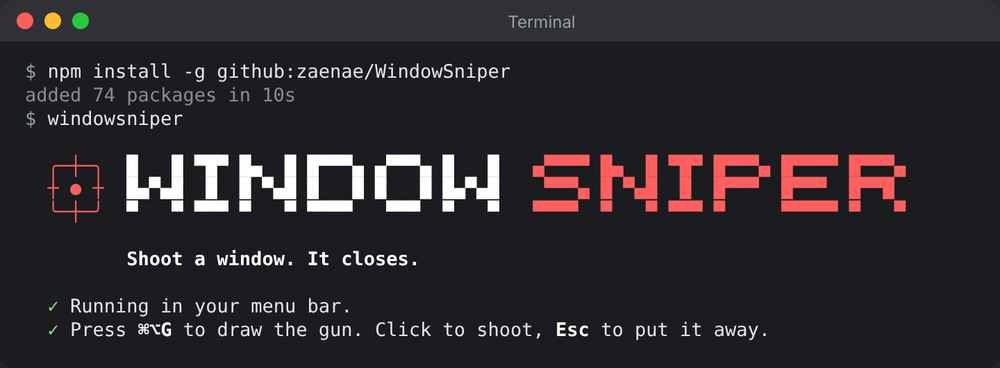
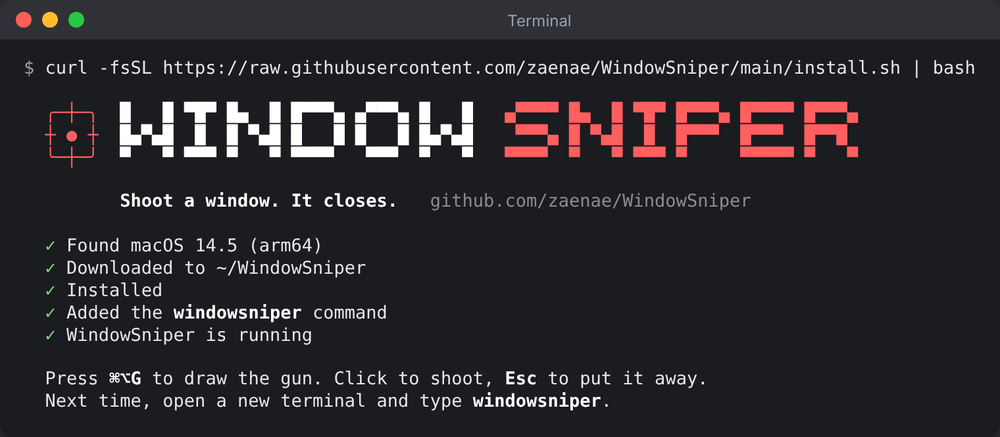
One-command install on Mac/Linux, direct download for Windows

diff --git a/README.md b/README.md
@@ -14,18 +14,25 @@
 
 ## Install
 
+**Mac / Linux**: paste this into Terminal. Nothing else needed.
+
 ```bash
-npm install -g github:zaenae/WindowSniper
-windowsniper
+curl -fsSL https://raw.githubusercontent.com/zaenae/WindowSniper/main/install.sh | bash
 ```
 
-Needs [Node.js](https://nodejs.org) 18 or newer. Works on Mac (10.15+), Windows and Linux.
-
-No Node? Grab the app from [**Releases**](https://github.com/zaenae/WindowSniper/releases).
+**Windows**: [**download the installer**](https://github.com/zaenae/WindowSniper/releases/latest/download/WindowSniper-win-x64.exe) and run it.
 
 <p align="center">
-  <img src="docs/installer.png" alt="Installing and starting WindowSniper" width="620">
+  <img src="docs/installer.png" alt="Installing WindowSniper with one command" width="620">
 </p>
+
+<details>
+<summary><b>Other ways to install</b></summary>
+
+- **Mac app:** [Apple chip (M1–M4)](https://github.com/zaenae/WindowSniper/releases/latest/download/WindowSniper-mac-arm64.dmg) · [Intel](https://github.com/zaenae/WindowSniper/releases/latest/download/WindowSniper-mac-x64.dmg)
+- **Linux app:** [AppImage](https://github.com/zaenae/WindowSniper/releases/latest/download/WindowSniper-linux-x86_64.AppImage)
+- **Already have Node.js?** `npm install -g github:zaenae/WindowSniper`, then run `windowsniper`
+</details>
 
 ## Play
 
@@ -46,7 +53,7 @@ It isn't, it's just not signed by Apple. Drag it into Applications, then run thi
 xattr -cr /Applications/WindowSniper.app
 ```
 
-Pick `mac-arm64` for M1–M4 Macs, `mac-x64` for older Intel ones.
+Pick the Apple chip version for M1–M4 Macs, Intel for older ones.
 </details>
 
 <details>
@@ -61,7 +68,7 @@ Pick `mac-arm64` for M1–M4 Macs, `mac-x64` for older Intel ones.
 <summary><b>More</b></summary>
 
 - **Start at login / Quit:** right-click the crosshair in your menu bar or tray.
-- **Uninstall:** `npm uninstall -g windowsniper`, or drag the app to the Trash.
+- **Uninstall:** delete `~/WindowSniper` (Mac/Linux one-liner), uninstall it from Settings → Apps (Windows), drag the app to the Trash (Mac app), or `npm uninstall -g windowsniper` (npm).
 - **Tweak it:** gun feel at the top of `gun.html`, health and hotkey at the top of `main.js`.
 </details>
 
